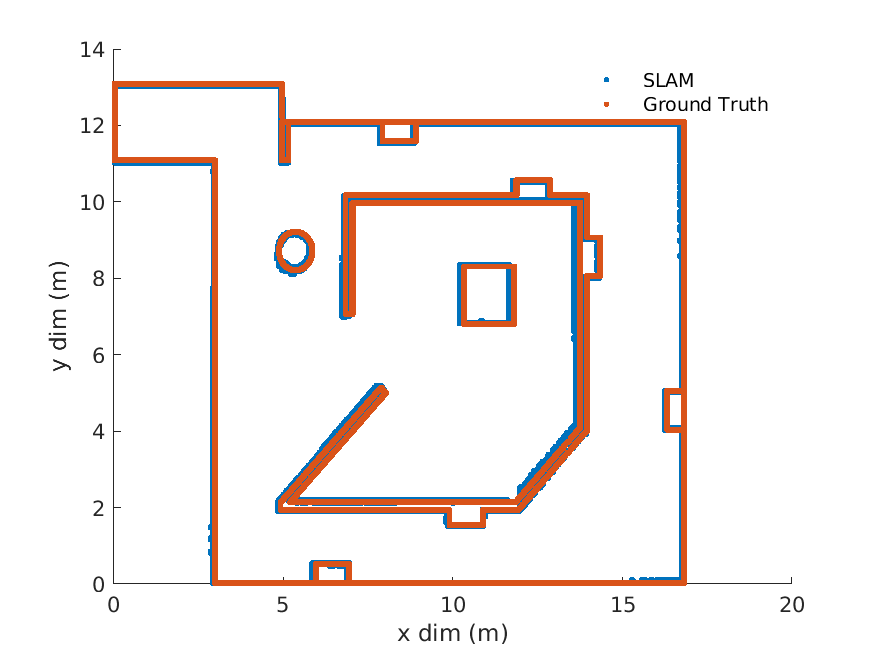
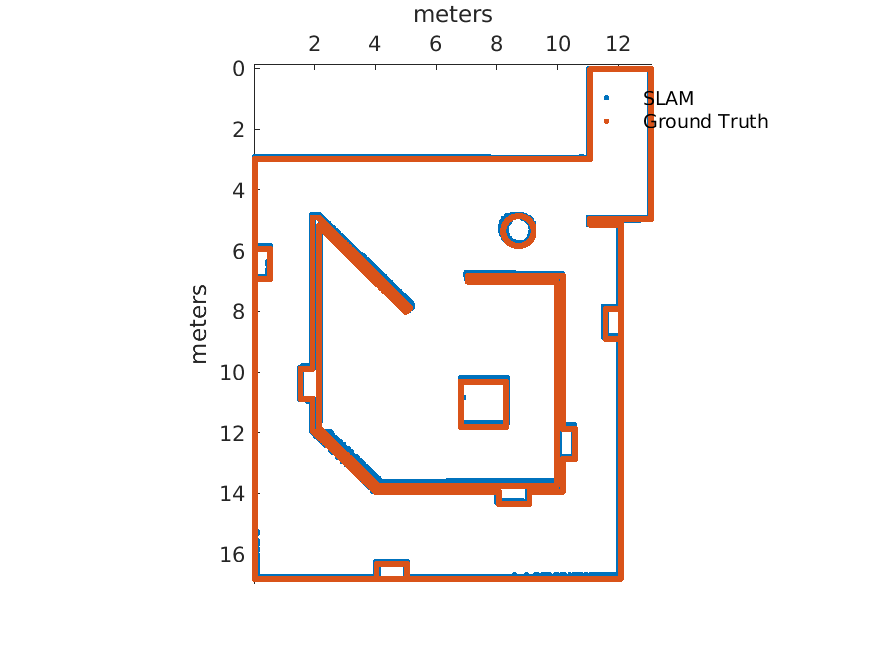
Improved GT vs SLAM plot slenderness

diff --git a/knnSearch.m b/knnSearch.m
@@ -77,12 +77,14 @@ p = figure('visible','off');
 scatter(SLAMBlackPoints(:,1)/(pixToCentimeter*100), SLAMBlackPoints(:,2)/(pixToCentimeter*100), '.')
 hold on
 scatter(GTBlackPoints(:,1)/(pixToCentimeter*100), GTBlackPoints(:,2)/(pixToCentimeter*100), '.')
-xlabel('x dim (m)')
-ylabel('y dim (m)')
+xlabel('meters')
+ylabel('meters')
 Legend = legend("SLAM", "Ground Truth");
 Legend.Location = 'northeast';
 Legend.Color = 'none';
 Legend.EdgeColor = 'none';
+camroll(-90)
+axis equal
 saveas(p,'PlotSLAMvsGT','png')
 
 
